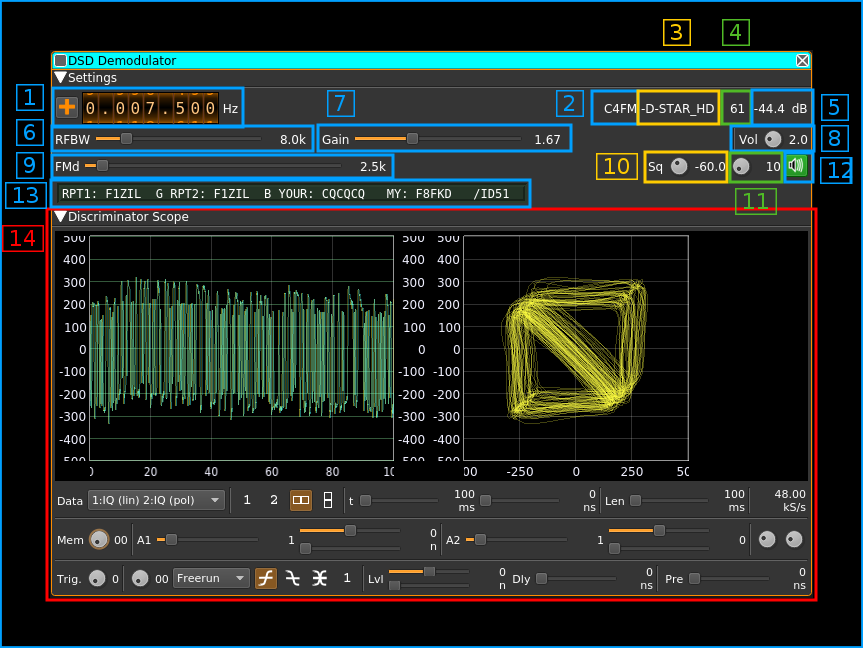
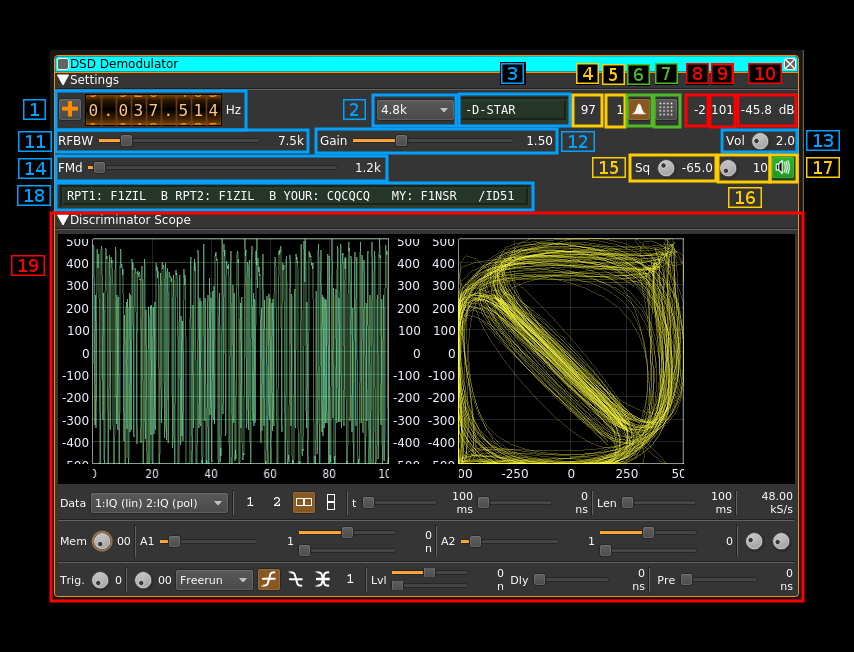
DSD demod plugin: updated readme with latest changes (2.1.2)

diff --git a/plugins/channel/demoddsd/readme.md b/plugins/channel/demoddsd/readme.md
@@ -41,13 +41,12 @@ For software built fron source if you choose to have `mbelib` support you will n
 
 Use the wheels to adjust the frequency shift in Hz from the center frequency of reception. Use the "+/-" button on the left side to toggle between positive and negative shift.
 
-<h3>2: Modulation detected</h3>
+<h3>2: Symbol (Baud) rate</h3>
 
-This is the type of modulation detected by DSDcc. It can be the following:
+Here you can specify which symbol rate or Baud rate is expected. Choices are:
 
-  - `C4FM`: 4-FSK modulation as implemented for example by Yaesu. It is also the default display. Sometimes 4-GFSK signals can be detected as C4FM if the signal is relatively noisy. This should not affect decoding provided noise is not too strong.
-  - `GFSK`: Gaussian mean frequency shift keying. it is either 2 or 4-FSK (2-GFSK or 4-GFSK). DMR transmissions will typically be identified as GFSK as it is 4-GFSK. D-Star will also be detected as GFSK as it is 2-GFSK.
-  - `QPSK`: At present no decodable transmissions use QPSK.
+  - `2.4k`: 2400 S/s used for dPMR and 4800 b/s NXDN
+  - `4.8k`: 4800 S/s used for 9600 b/s NXDN, DMR, D-Star and YSF.
 
 <h3>3: Type of frame detected</h3>
 
@@ -57,91 +56,155 @@ This can be one of the following:
   - `-DMRd`: inverted DMR data frame
   - `+DMRv`: non-inverted DMR voice frame
   - `-DMRv`: inverted DMR voice frame
-  - `(+DMR)`: non-inverted isolated DMR voice frame
-  - `(-DMR)`: inverted isolated DMR voice frame
   - `+D-STAR`: non-inverted D-Star frame
   - `-D-STAR`: inverted D-Star frame
   - `+D-STAR_HD`: non-inverted D-Star header frame encountered
   - `-D-STAR_HD`: inverted D-Star header frame encountered
+  - `+dPMR`: non-inverted dPMR non-packet frame
+  - `-dPMR`: inverted dPMR non-packet frame
+  - `+NXDN`: non-inverted NXDN frame (detection only)
+  - `-NXDN`: inverted NXDN frame (detection only)
+  - `+YSF`: non-inverted Yaesu System Fusion frame (detection only)
+  - `-YSF`: inverted Yaesu System Fusion frame (detection only)
 
-<h3>4: Decoder input level in %</h3>
+<h3>4: Symbol synchronization zero crossing hits in %</h3>
 
-Most satisfactory decodes for values 50~70%. When no signal is detected it defaults to 91%.
+This is the percentage per symbols for which a valid zero crossing has been detected. This can display 101% because somtimes there are two crossings per symbol period at the start of a sequence. The more the better the symbol synchronization is tracked however the zero crossing shifts much not deviate too much from 0 (see next).
 
-<h3>5: Channel power</h3>
+<h3>5: Zero crossing shift</h3>
+ 
+This is the current (at display polling time) zero crosing shift. It should be the closest to 0 as possible. However some jitter is acceptable for good symbol synchronization:
+
+  - `2400 S/s`: +/- 5 inclusive
+  - `4800 S/s`: +/- 2 inclusive
+ 
+<h3>6: Matched filter toggle</h3>
+ 
+Normally you would always want to have a matched filter however on some strong D-Star signals more synchronization points could be obtained without. When engaged the background of the button is lit in orange.
+
+<h3>7: Transition constellation or symbol synchronization signal toggle</h3>
+
+Using this button you can either:
+
+  - show the transitions constellation
+  - show a indicative signal about symbol synchronization
+    - when a zero crossing is detected the signal is set to estimated input discriminator signal maximum value
+    - when the symbol clock is 0 (start of symbol period) the signal is set to the estimated median point of the input discriminator signal
+
+<h3>8: Discriminator input signal median level in %</h3>
+
+This is the estimated median level (center) of the discriminator input signal in percentage of half the total range. When the signal is correctly aligned in the input range it should be 0
+
+<h3>9: Discriminator input signal level range in %</h3>
+
+This is the estimated discriminator input signal level range (max - min) in percentage of half the total range. For optimal decoding it should be maintained close to 100.
+
+<h3>10: Channel power</h3>
 
 Total power in dB relative to a +/- 1.0 amplitude signal received in the pass band.
 
-<h3>6: Channel bandwidth before discriminator</h3>
+<h3>11: Channel bandwidth before discriminator</h3>
 
 This is the bandwidth of the pre-discriminator filter
 
-<h3>7: Gain after discriminator</h3>
+<h3>12: Gain after discriminator</h3>
 
 This is the gain applied to the output of the discriminator before the decoder
 
-<h3>8: Audio volume</h3>
+<h3>13: Audio volume</h3>
 
 This is the audio volume for positive values. A value of zero triggers the auto volume (audio AGC).
 
-<h3>9: Maximum expected FM deviation</h3>
+<h3>14: Maximum expected FM deviation</h3>
 
 This is the deviation in kHz leading to maximum (100%) deviation. You should aim for 30 to 50% (+/-300 to +/-500m) deviation on the scope display.
 
-<h3>10: Squelch level</h3>
+<h3>15: Squelch level</h3>
 
 The level corresponds to the channel power above which the squelch gate opens.
 
-<h3>11: Squelch time gate</h3>
+<h3>16: Squelch time gate</h3>
 
 Number of milliseconds following squelch gate opening after which the signal is actually fed to the decoder. 0 means no delay i.e. immediate feed.
 
-<h3>12: Audio mute and squelch indicator</h3>
+<h3>17: Audio mute and squelch indicator</h3>
 
 Audio mute toggle button. This button lights in green when the squelch opens.
 
-<h3>13: Format specific status display</h3>
+<h3>18: Format specific status display</h3>
 
 When the display is active the background turns from the surrounding gray color to dark green. It shows informatory or status messages that are particular to each format.
 
-<h4>13.1: D-Star status display</h4>
+<h4>18.1: D-Star status display</h4>
 
 ![DSD D-Star status](../../../doc/img/DSDdemod_plugin_dstar_status.png)
 
 These is the standard D-Star embedded information that is read from the header frame.
 
-<h5>13.1.1: Repeater 1 callsign</h5>
-<h5>13.1.2: Repeater 2 callsign</h5>
-<h5>13.1.3: Destination (your) callsign</h5>
-<h5>13.1.4: Origin (my) callsign</h5>
+<h5>18.1.1: Repeater 1 callsign</h5>
+<h5>18.1.2: Repeater 2 callsign</h5>
+<h5>18.1.3: Destination (your) callsign</h5>
+<h5>18.1.4: Origin (my) callsign</h5>
 
-<h4>13.2: DMR status display</h4>
+<h4>18.2: DMR status display</h4>
 
 ![DSD DMR status](../../../doc/img/DSDdemod_plugin_dmr_status.png)
 
-<h5>13.2.1: Station role</h5>
+<h5>18.2.1: Station role</h5>
 
   - `BS`: base station
   - `MS`: mobile station
   - `NA`: not applicable or could not be determined
 
-<h5>13.2.2: TDMA slot #0 status</h5>
+<h5>18.2.2: TDMA slot #0 status</h5>
 
   - `slot0`: nothing received in slot #0
   - `[slot0]`: data frame received for slot #0
   - `[SLOT0]`: voice frame received for slot #0
 
-<h5>13.2.3: TDMA slot #1 status</h5>
+<h5>18.2.3: TDMA slot #1 status</h5>
 
   - `slot1`: nothing received in slot #1
   - `[slot1]`: data frame received for slot #1
   - `[SLOT1]`: voice frame received for slot #1
   
-<h5>13.2.4: Color Code</h5>
+<h5>18.2.4: Color Code</h5>
 
 This is the color code in use (0 to 15). It may briefly change value to a incorrect one. Take into account the value shown most of the time.
 
-<h3>14: Discriminator output scope display</h3>
+<h4>18.3: dPMR status display</h4>
+
+![DSD dPMR status](../../../doc/img/DSDdemod_plugin_dpmr_status.png)
+
+<h5>18.3.1: dPMR frame tyoe</h5>
+
+  - `--`: undetermined
+  - `HD`: Header of FS1 type
+  - `PY`: Payload frame of a sitll undetermined type
+  - `VO`: Voice frame
+  - `VD`: Voice and data frame
+  - `D1`: Data without FEC frame
+  - `D2`: Data with FEC frame
+  - `XS`: Extended search: looking for a new payload frame when out of sequence
+  - `EN`: End frame
+  
+<h5>18.3.2: Colour code</h5>
+
+Colour code in hexadecimal (12 bits)
+
+<h5>18.3.3: Own ID</h5>
+
+Sender's identification code in hexadecimal (24 bits)
+
+<h5>18.3.4: Called ID</h5>
+
+Called party's identification code in hexadecimal (24 bits)
+
+<h3>19: Discriminator output scope display</h3>
+
+<h4>19.1 Transitions constellation display</h4>
+
+This is selected by the transition constellation or symbol synchronization signal toggle (see 7)
 
 The discriminator signal at 48 kS/s is routed to the scope display with the following connections:
 
@@ -155,22 +218,22 @@ This allows the visualization of symbol transitions which depend on the type of 
 
 ![DSD scope](../../../doc/img/DSDdemod_plugin_scope.png)
 
-<h4>14.1: Setting the display</h4>
+<h5>19.1.1: Setting the display</h5>
 
   - On the combo box you should choose IQ (lin) for the primary display and IQ (pol) for secondary display
   - On the display buttons you should choose the side by side display
 
 On the same line you can choose any trace length. If it is too short the constellation points will not appear clearly and if it is too long the polar figure will be too dense. Usually 100ms give good results.
 
-<h4>14.2: IQ linear display</h4>
+<h5>19.1.2: IQ linear display</h5>
 
 The yellow trace (I) is the direct trace and the blue trace (Q) is the delayed trace. This can show how symbols differentiate between each other in a sort of eye diagram.
 
-<h4>14.3: IQ polar display</h4>
+<h5>19.1.3: IQ polar display</h5>
 
 This shows the constellation of transition points. You should adjust the frequency shift to center the figure and the maximum deviation and/or discriminator gain to contain the figure within the +/-0.4 square. +/- 0.1 to +/- 0.3 usually give the best results.
 
-<h5>2-FSK or 2-GFSK</h5>
+<h6>2-FSK or 2-GFSK</h6>
 
 This concerns the following formats:
 
@@ -187,11 +250,14 @@ There are 4 possible points corresponding to the 4 possible transitions. x repre
 
 As you can see the pointer can make all moves except between (-1, -1) and (1,1) hence all vertices between the 4 points can appear except the one between the lower left corner and the upper right corner.
 
-<h5>4-FSK or 4-GFSK</h5>
+<h6>4-FSK or 4-GFSK</h6>
 
 This concerns the following formats:
 
   - DMR
+  - YSF
+  - dPMR
+  - NXDN
 
 ![DSD DMR polar](../../../doc/img/DSDdemod_plugin_dmr_polar.png)
 
@@ -199,14 +265,50 @@ There are 16 possible points corresponding to the 16 possible transitions betwee
 
 Because not all transitions are possible similarly to the 2-FSK case pointer moves from the lower left side of the diagonal to the upper right side are not possible.
 
-<h4>14.4: I gain</h4>
+<h5>19.1.4: I gain</h5>
 
-You should set the slider to a unity (1) span (+/- 0.5) with no offset.
+You should set the slider to a unity (1) span (+/- 0.5) with no offset. This corresponds to full range in optimal conditions (100%). You can set the slider fully to the left (2) for a +/- 1.0 spn if you don't exactly match these conditions.
 
-<h4>14.5: Q gain</h4>
+<h5>19.1.5: Q gain</h5>
 
-You should set the slider to a unity (1) span (+/- 0.5) with no offset.
+You should set the slider to a unity (1) span (+/- 0.5) with no offset. This corresponds to full range in optimal conditions (100%). You can set the slider fully to the left (2) for a +/- 1.0 spn if you don't exactly match these conditions.
 
-<h4>14.6: Trigger settings</h4>
+<h5>19.1.6: Trigger settings</h5>
 
 You can leave the trigger free running or set it to I linear with a 0 threshold.
+
+<h4>19.2 Symbol synchronization display</h4>
+
+This is selected by the transition constellation or symbol synchronization signal toggle (see 7)
+
+![DSD scope](../../../doc/img/DSDdemod_plugin_scope2.png)
+
+<h5>19.2.1 IQ linear display</h5>
+
+The I trace (yellow) is the discriminator signal and the Q trace (blue) is the symbol synchronization monitor trace that goes to the estimated maximum discriminator signal level when a zero crossing in the symbol synchronization control signal is detected and goes to mid position ((max - min) / 2) of the discriminator signal when a symbol period starts.
+
+The symbol synchronization control signal is obtained by squaring the discriminator signal and passing it through a narrow second order bandpass filter centered on the symbol rate. Its zero crossing should occur close to the first fourth of a symbol period therefore when synchronization is ideal the Q trace (blue) should go down to mid position in the first fourth of the symbol period.
+
+<h5>19.2.2: Setting the display</h5>
+
+  - On the combo box you should choose IQ (lin) for the primary display and IQ (pol) for secondary display
+  - On the display buttons you should choose the first display (1)
+
+<h5>19.2.3: Timing settings</h5>
+
+You can choose any trace length with the third slider from the left however 100 ms will give you the best view. You may stretch further the display by reducing the full length to 20 ms or less using the first slider. You can move this 20 ms window across the 100 ms trace with the middle slider.
+
+<h5>19.2.4: I gain</h5>
+
+You should set the slider to a unity (1) span (+/- 0.5) with no offset. This corresponds to full range in optimal conditions (100%). You can set the slider fully to the left (2) for a +/- 1.0 spn if you don't exactly match these conditions.
+
+<h5>19.2.5: Q gain</h5>
+
+You should set the slider to a unity (1) span (+/- 0.5) with no offset. This corresponds to full range in optimal conditions (100%). You can set the slider fully to the left (2) for a +/- 1.0 spn if you don't exactly match these conditions.
+
+<h5>19.2.6: Trigger settings</h5>
+
+You can leave the trigger free running or set it to I linear with a 0 threshold.
+
+
+ 
